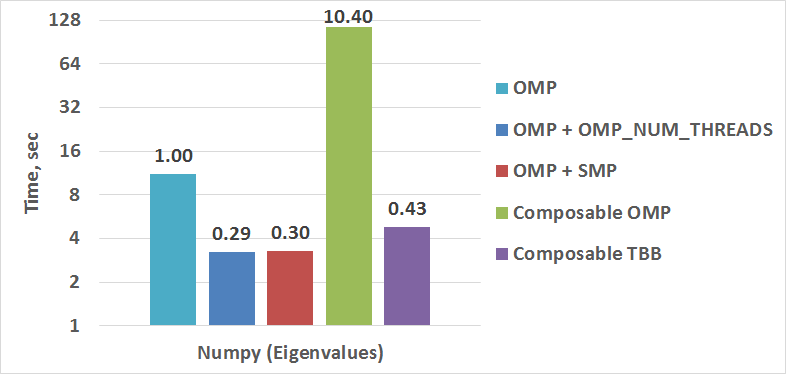
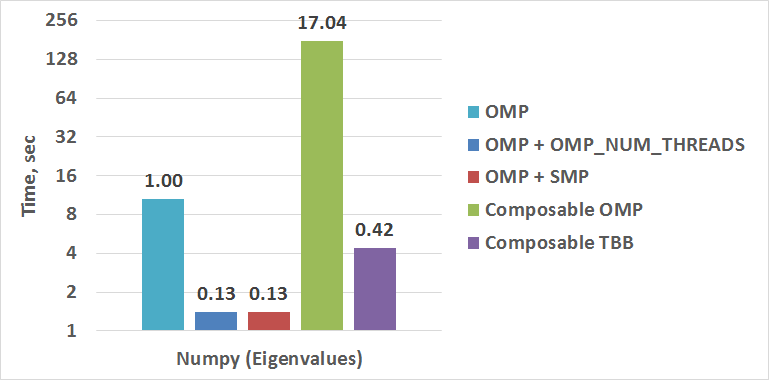
Add OMP_NUM_THREADS equals 1 results

diff --git a/papers/anton_malakhov/composability.rst b/papers/anton_malakhov/composability.rst
@@ -212,7 +212,7 @@ The code below is a simple program using Dask that validates QR decomposition by
         t0 = time.time()
         q, r = da.linalg.qr(x)
         test = da.all(da.isclose(x, q.dot(r)))
-        test.compute(num_workers=44)
+        test.compute()
         print(time.time() - t0)
 
 Here, Dask splits the array into 44 chunks and processes them in parallel using multiple threads.
@@ -225,26 +225,26 @@ Here is an example of running the benchmark program in five different modes:
 .. code-block:: sh
     :linenos:
 
-    python bench.py         # Default OpenMP mode
-    KMP_BLOCKTIME=0 OMP_NUM_THREADS=4 \
-        python bench.py     # Tunned OpenMP mode
-    python -m SMP bench.py  # OpenMP + SMP mode
+    python bench.py             # Default OpenMP mode
+    KMP_BLOCKTIME=0 OMP_NUM_THREADS=1 \
+        python bench.py         # Tunned OpenMP mode
+    python -m SMP -f 1 bench.py # OpenMP + SMP mode
     KMP_COMPOSABILITY=mode=exclusive \
-        python bench.py     # Composable OpenMP mode
-    python -m TBB bench.py  # Composable TBB mode
+        python bench.py         # Composable OpenMP mode
+    python -m TBB bench.py      # Composable TBB mode
 
 .. figure:: dask_static.png
 
    Execution times for balanced QR decomposition workload. :label:`sdask`
 
 Figure :ref:`sdask` shows performance results acquired on a 44-core (88-thread) machine with 128 GB memory. The results presented here were acquired with cpython v3.5.2; however, there is no significant performance difference with cpython v2.7.12.
-By default Dask will process a chunk in a separate thread so there will be 44 threads on the top level. Also each chunk will be computed in parallel with 44 OpenMP workers.
+By default Dask will process a chunk in a separate thread so there will be 44 threads on the top level (note that by default Dask will create a thread pool with 88 workers but only half of them will be really used since there are only 44 chunks). Also each chunk will be computed in parallel with 44 OpenMP workers.
 Thus there will be 1936 threads in total which tries to acquire 44 cores that is not effective.
 
 An obvious way to improve performance is to tune OpenMP runtime using environment variables. First of all it's needed to limit total number of threads.
-Let's set 2x over-subsctiption instead of quadratic as our target. Since we work on 88-thread machine, to archive it we should set number of threads per parallel region to 4 ((88 CPU threads / 44 top level threads) * 2x over-subscription).
+Let's set 1x over-subsctiption instead of quadratic as our target. Since we work on 88-thread machine, to archive it we should set number of threads per parallel region to 1 ((88 CPU threads / 88 workers in thread pool) * 1x over-subscription).
 Also we noticed that reducing period of time after which OpenMP worker will go to sleep helps to improve performance in such workloads with over-subscription (it works best for multi-processing case but helps for multi-threading as well).
-That's why another option here is KMP_BLOCKTIME that sets to zero. As one can see such simple optimizations allows to reduce computational time to more than 3x.
+That's why another option here is KMP_BLOCKTIME that sets to zero. As one can see such simple optimizations allows to reduce computational time to 2.8x.
 
 The third mode with *SMP.py* module in fact does the same optimizations but automatically and shows the same level of performance as the second one. Moreover it is more flexible and allows to work carefully with several thread/process pools in scope of one application even if they have different sizes.
 Thus we invite to use it as an advanced alternative to manual OpenMP tunning.
@@ -266,7 +266,7 @@ The code below performs an algorithm of eigenvalues and right eigenvectors searc
     import time, numpy as np
     from multiprocessing.pool import ThreadPool
     x = np.random.random((256, 256))
-    p = ThreadPool(44)
+    p = ThreadPool(88)
     for j in range(3):
         t0 = time.time()
         p.map(np.linalg.eig, [x for i in range(1024)])
@@ -281,7 +281,7 @@ But this code has a distinctive feature - in spite of parallel execution of eige
    Execution time for balanced eignevalues search workload. :label:`snumpy`
 
 Figure :ref:`snumpy` shows benchmark execution time in the same five modes as we used for QR decomposition.
-As previously the best choice here is to limit number of threads statically eigher using manual settings or *SMP.py* module. Such approach allows to obtain more than 3x speed-up.
+As previously the best choice here is to limit number of threads statically either using manual settings or *SMP.py* module. Such approach allows to obtain more than 7x speed-up.
 But this time Intel |R| TBB based approach looks much better than serialization of OpenMP parallel regions. And the reason is low CPU utilization in each separate chunk.
 In fact exclusive OpenMP mode leads to serial matrix processing, one by one, so significant part of the CPU stays unsed.
 As a result, execution time in this case becomes even larger than by default.
@@ -449,7 +449,7 @@ Three approaches are described as potential solution. The first one is to static
 And the third one is to use a common threading runtime library such as Intel |R| TBB which limits the number of threads in order to prevent over-subscription and coordinates parallel execution of independent program modules.
 
 The examples referred in the paper show promising results, where, thanks to nested parallelism and threading composability, the best performance was achieved.
-In particular, balanced QR decomposition and eigenvalues search examples are 3x faster comparing to the baseline implementation. Unbalanced versions of these benchmarks are by 34% and 35% faster than the baseline accordingly.
+In particular, balanced QR decomposition and eigenvalues search examples are 2.8x and 7x faster comparing to the baseline implementation. Unbalanced versions of these benchmarks are by 34% and 35% faster than the baseline accordingly.
 
 These improvements were achived due to different approaches. It demonstrates that all three described solutions are valuable and complement each other. We've compared suggested approaches and provided recommendations of when it makes sense to employ each of them.
 
